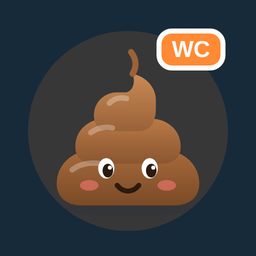
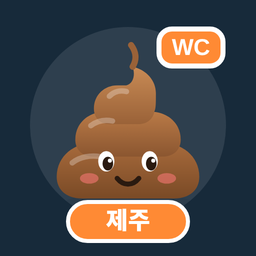
지역별 앱 아이콘: 배경색·강조색과 지역 이름을 넣어 다른 지역 앱과 구분, 홈 화면 이름도 지역 표시
Claude-Session: https://claude.ai/code/session_01Tujojwg49QDAoe4rT8CncF

diff --git a/index.html b/index.html
@@ -7,9 +7,9 @@
   <meta name="description" content="제주 공식 공공데이터 기반 공중화장실 찾기 — 지도, 편의시설 필터, 길찾기, 4개 언어, 귤랑이 음성 안내" />
   <meta name="apple-mobile-web-app-capable" content="yes" />
   <meta name="apple-mobile-web-app-status-bar-style" content="default" />
-  <meta name="apple-mobile-web-app-title" content="Ddong" />
+  <meta name="apple-mobile-web-app-title" content="Ddong 제주" />
   <link rel="manifest" href="app-v2.webmanifest" />
[2 lines of base64/hex data omitted]
   <link rel="icon" href="favicon.ico" sizes="any" />
   <link rel="icon" type="image/png" sizes="32x32" href="icons/icon-32.png" />
   <link rel="icon" type="image/png" sizes="192x192" href="icons/icon-192.png" />

diff --git a/sw.js b/sw.js
@@ -1,5 +1,5 @@
 // 서비스워커: 네트워크 우선(항상 최신), 오프라인일 때만 캐시 사용
-const CACHE = "jeju-toilet-v24";
+const CACHE = "jeju-toilet-v25";
 const SHELL = ["./", "index.html", "css/app.css", "fonts/ddong-logo.woff", "js/app.js", "js/i18n.js", "js/icons.js", "js/sos.js", "data/toilets.json", "ddong.mp3"];
 self.addEventListener("install", (e) => { e.waitUntil(caches.open(CACHE).then((c) => c.addAll(SHELL)).then(() => self.skipWaiting())); });
 self.addEventListener("activate", (e) => { e.waitUntil(caches.keys().then((ks) => Promise.all(ks.filter((k) => k !== CACHE).map((k) => caches.delete(k)))).then(() => self.clients.claim())); });
